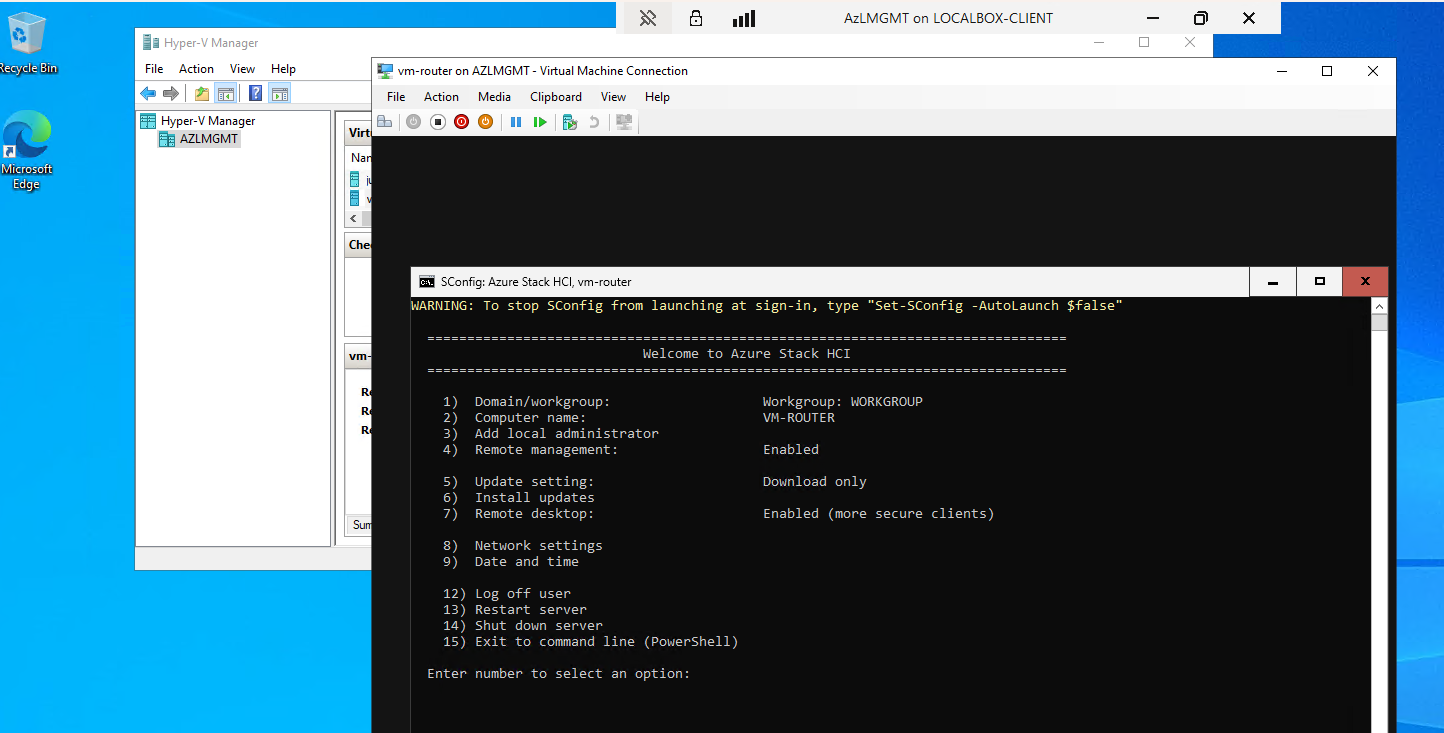
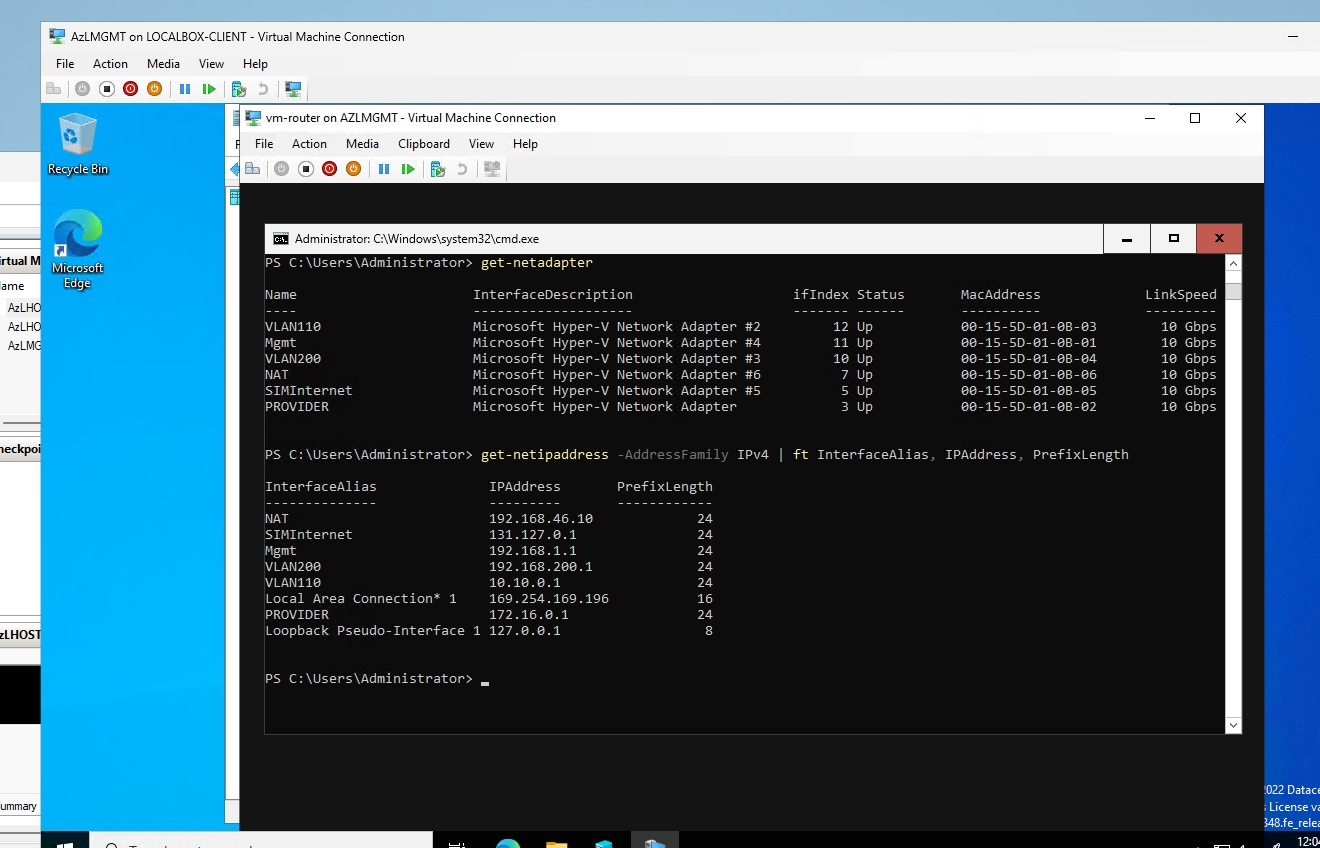
Exercise 3: portal-based AKS creation, add prerequisites
- Rewrite Challenge 1 to include creating AKS logical network via portal
  (10.10.0.0/24, VLAN 110, static IP, DNS 172.16.0.1)
- Rewrite Challenge 2 for portal-based AKS cluster creation
  (keep script as alternative in spoiler section)
- Add Entra ID group creation steps with detailed portal instructions
- Add prerequisite: kubectl, Entra ID permissions
- README: add Entra ID permissions to Prerequisites section
- Add exercise 2 screenshots (logical networks, create-image)

diff --git a/exercises/03-aks-on-azure-local.md b/exercises/03-aks-on-azure-local.md
@@ -14,7 +14,8 @@ By the end of this exercise, you will understand:
 - Completed Exercises 0-2
 - Understanding of logical networks (from Exercise 2)
 - Basic familiarity with Kubernetes concepts (pods, deployments, services)
-- An Entra ID group you're a member of (or ability to create one)
+- Entra ID permissions to create a security group (or membership in an existing one)
+- `kubectl` installed on LocalBox-Client (should already be present from the base deployment)
 
 ## Context
 
@@ -39,29 +40,54 @@ The "enabled by Azure Arc" part means the cluster is registered with Azure and c
 
 **Goal:** Understand what's needed before deploying AKS and prepare the environment.
 
+AKS on Azure Local requires several things to be in place before you can create a cluster. Your job is to figure out what those are and set them up.
+
 **What you need to figure out:**
-1. What network will AKS use? (Hint: it's different from the VM network in Exercise 2)
-2. What Azure Arc extension enables AKS? Is it already installed?
-3. You need an Entra ID group for RBAC — do you have one or need to create one?
+1. What network will AKS use? Does it already exist, or do you need to create a logical network for it?
+2. What Azure Arc extension enables AKS? Is it already installed on your cluster?
+3. AKS on Azure Local uses Azure RBAC gated by Entra ID group membership — do you have a group, or do you need to create one?
 
 <details>
 <summary>🔍 Hint 1 — Network</summary>
 
-AKS uses a dedicated network: **10.10.0.0/24 on VLAN 110**. This is separate from the VM network (192.168.200.0/24 on VLAN 200). The separation prevents AKS internal traffic from interfering with VM traffic.
+AKS needs a **dedicated logical network** that is separate from the VM network you created in Exercise 2. In LocalBox, AKS uses:
+- **Subnet:** 10.10.0.0/24
+- **VLAN:** 110
+- **Gateway:** 10.10.0.1
+- **DNS:** 172.16.0.1 (the domain controller)
+
+You need to create this logical network before deploying the AKS cluster. Use the Azure portal just like you did in Exercise 2:
+
+1. Go to your Azure Local cluster resource → **Logical networks** → **+ Create**
+2. Name it something descriptive (e.g., `aks-network`)
+3. Use **Static** IP allocation
+4. Configure the subnet: `10.10.0.0/24`, gateway `10.10.0.1`, DNS server `172.16.0.1`
+5. Add an IP pool (e.g., `10.10.0.10` to `10.10.0.200`) for Kubernetes nodes and services
+6. Set the VLAN ID to **110**
 
 </details>
 
 <details>
 <summary>🔍 Hint 2 — Arc Extension</summary>
 
-Go to the Azure Portal → Custom Location `jumpstart` → Arc-enabled services. You should see `hybridaksextension` already listed. This extension was deployed as part of the Azure Local cluster setup.
+Go to the Azure Portal → your Azure Local cluster → **Extensions**. You should see `hybridaksextension` (or `aksarc`) already listed. This extension was deployed automatically as part of the Azure Local cluster setup — you don't need to install it manually.
+
+You can also check from the Custom Location resource: navigate to `jumpstart-cl` → **Enabled resource types** and confirm that Kubernetes-related resource types are available.
 
 </details>
 
 <details>
 <summary>🔍 Hint 3 — Entra ID Group</summary>
 
-AKS on Azure Local uses Azure RBAC for cluster access, gated by Entra ID group membership. Create a group in the Entra ID portal (portal.azure.com → Microsoft Entra ID → Groups → New group) and add yourself as a member. Copy the group's Object ID — you'll need it.
+AKS on Azure Local uses Azure RBAC for cluster access, gated by Entra ID group membership. You need a security group with yourself as a member:
+
+1. Go to [portal.azure.com](https://portal.azure.com) → **Microsoft Entra ID** → **Groups** → **New group**
+2. Group type: **Security**
+3. Name it (e.g., `AKS Admins`)
+4. Add yourself as a **Member**
+5. Create the group and copy its **Object ID** — you'll need this when creating the cluster
+
+> **Note:** If your tenant doesn't allow you to create groups, ask your administrator to create one and add you.
 
 </details>
 
@@ -69,43 +95,91 @@ AKS on Azure Local uses Azure RBAC for cluster access, gated by Entra ID group m
 
 ## Challenge 2: Deploy an AKS Cluster
 
-**Goal:** Deploy an AKS workload cluster on your Azure Local instance.
+**Goal:** Deploy an AKS workload cluster on your Azure Local instance using the Azure portal.
+
+Now that you have the prerequisites in place (logical network, Entra ID group, Arc extension), create the AKS cluster from the Azure portal.
 
 **What you need to figure out:**
-- Where is the deployment script on LocalBox-Client?
-- What parameter needs to be configured before running it?
-- How to monitor the deployment progress
+- Where in the portal do you create an AKS cluster on Azure Local? (Hint: it's not the regular AKS service)
+- What settings are required? (network, node count, node VM size, RBAC group)
+- How long does deployment take and how to monitor it?
 
 <details>
-<summary>🔍 Hint 1</summary>
+<summary>🔍 Hint 1 — Where to create the cluster</summary>
 
-On LocalBox-Client, look in `C:\LocalBox` for `Configure-AksWorkloadCluster.ps1`. Open it in VS Code before running it — there's a parameter you need to uncomment and set.
+There are two paths:
+
+- **From the Azure Local cluster resource:** Go to your cluster → **Virtual machines and AKS** → **AKS clusters** tab → **+ Create AKS cluster**
+- **From the Kubernetes services page:** Go to **Kubernetes services** in the portal → **+ Create** → Select **Azure Kubernetes Service Arc** (not the regular AKS)
+
+Both paths lead to the same creation wizard.
 
 </details>
 
 <details>
-<summary>🔍 Hint 2</summary>
+<summary>🔍 Hint 2 — Key settings</summary>
 
-The script has a commented-out line (around line 6) for `$aadgroupID`. Uncomment it and paste in the Object ID of your Entra ID group.
+In the creation wizard:
+
+- **Basics:**
+  - Select your subscription and resource group (`azlocal2`)
+  - Cluster name (e.g., `aks-localbox`)
+  - Custom location: `jumpstart-cl`
+  - Kubernetes version: pick the latest available
+
+- **Node pools:**
+  - The default node pool will ask for VM size — start small (e.g., `Standard_A4_v2`, 4 vCPUs, 8 GB)
+  - Node count: 1-2 (this is a lab, conserve resources)
+
+- **Networking:**
+  - Select the logical network you created in Challenge 1 (e.g., `aks-network`)
+  - Leave the pod and service CIDRs at defaults unless they conflict
+
+- **Access:**
+  - Authentication: **Microsoft Entra ID with Kubernetes RBAC**
+  - Admin Group Object IDs: paste the Object ID of the Entra ID group you created
 
 </details>
 
 <details>
 <summary>⚠️ Spoiler: Full Solution</summary>
 
-1. RDP into LocalBox-Client
-2. Open `C:\LocalBox\Configure-AksWorkloadCluster.ps1` in VS Code
-3. Find the commented line: `# $aadgroupID = "<your-entra-group-object-id>"`
-4. Uncomment it and replace the placeholder with your group's Object ID
-5. Save (Ctrl+S)
-6. Click the Run button in VS Code (▶️)
-7. Wait for completion — look for `"currentState": "Succeeded"`
-8. Verify in Azure Portal: a new resource `localbox-aks` appears in your resource group
+1. **Create the logical network** (if not done already):
+   - Azure portal → your Azure Local cluster → Logical networks → + Create
+   - Name: `aks-network`
+   - Static IP allocation
+   - Address prefix: `10.10.0.0/24`
+   - Gateway: `10.10.0.1`
+   - DNS: `172.16.0.1`
+   - IP pool: `10.10.0.10` – `10.10.0.200`
+   - VLAN: `110`
+   - Review + Create
 
-The script creates:
-- A virtual network resource for AKS (mapping to the 10.10.0.0/24 subnet)
-- An AKS cluster with Arc connectivity
-- RBAC configuration tied to your Entra ID group
+2. **Create the Entra ID group** (if not done already):
+   - portal.azure.com → Microsoft Entra ID → Groups → New group
+   - Type: Security, Name: `AKS Admins`
+   - Add yourself as member → Create
+   - Copy the Object ID
+
+3. **Create the AKS cluster:**
+   - Azure portal → Kubernetes services → + Create → **Azure Kubernetes Service Arc**
+   - Subscription: your subscription
+   - Resource group: `azlocal2`
+   - Cluster name: `aks-localbox`
+   - Custom location: `jumpstart-cl`
+   - Kubernetes version: latest available (e.g., 1.28.x or 1.29.x)
+   - Node pool: `Standard_A4_v2`, node count: 2
+   - Networking: select `aks-network`
+   - Access: Microsoft Entra ID + Kubernetes RBAC
+   - Admin Group Object IDs: paste your group's Object ID
+   - Review + Create
+
+4. **Monitor deployment:**
+   - The deployment takes 15-30 minutes
+   - Watch progress in Deployments (resource group → Deployments)
+   - When complete, the cluster appears as a **Kubernetes - Azure Arc** resource
+
+> **Alternative — Script method:** If you prefer CLI, LocalBox-Client has `C:\LocalBox\Configure-AksWorkloadCluster.ps1`. Edit the `$aadgroupID` variable (around line 6) with your group's Object ID, then run it in VS Code. The script automates all the steps above.
 
 </details>
 

diff --git a/README.md b/README.md
@@ -147,6 +147,7 @@ The LocalBox VM is an **E32s_v6** (32 vCPUs, 256 GB RAM). Estimated costs:
 - Azure CLI 2.65.0+
 - 32 ESv6-series vCPUs quota in your target region
 - ~4-5 hours for initial deployment to complete
+- **Entra ID permissions**: ability to create security groups in your tenant (required for Exercise 3 — AKS RBAC). Users with the *Groups Administrator* or *Global Administrator* role, or with the default "users can create security groups" tenant setting enabled, will have sufficient access.
 
 ## Troubleshooting
 